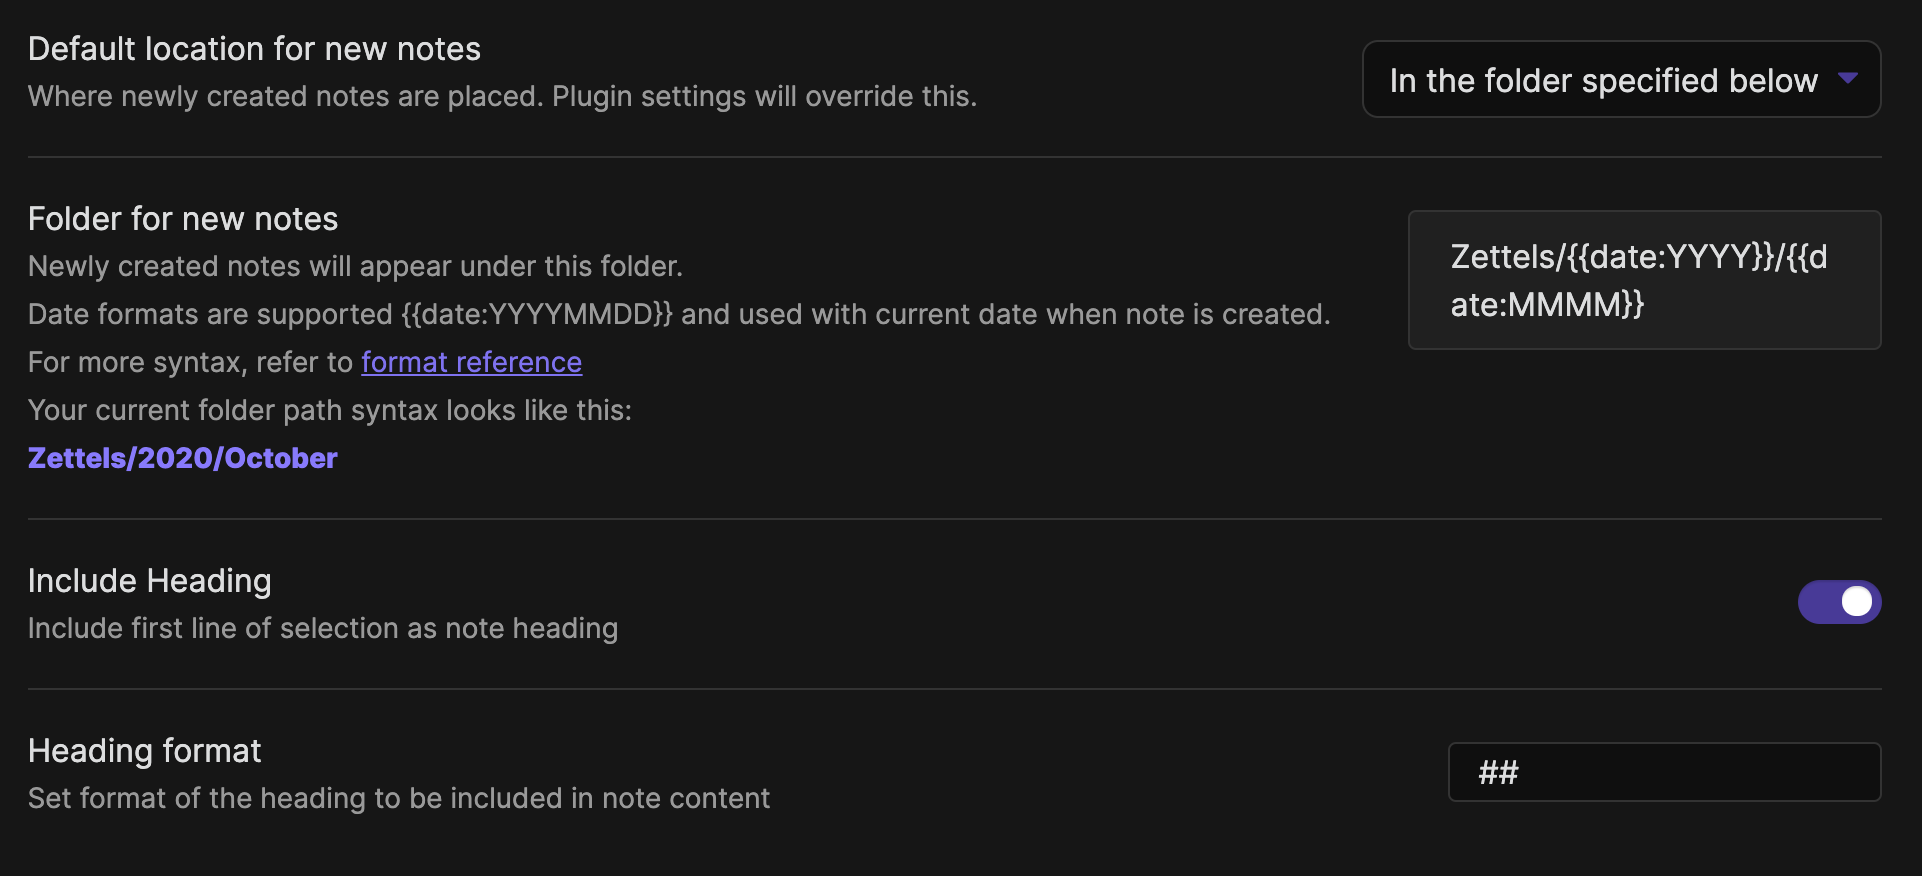
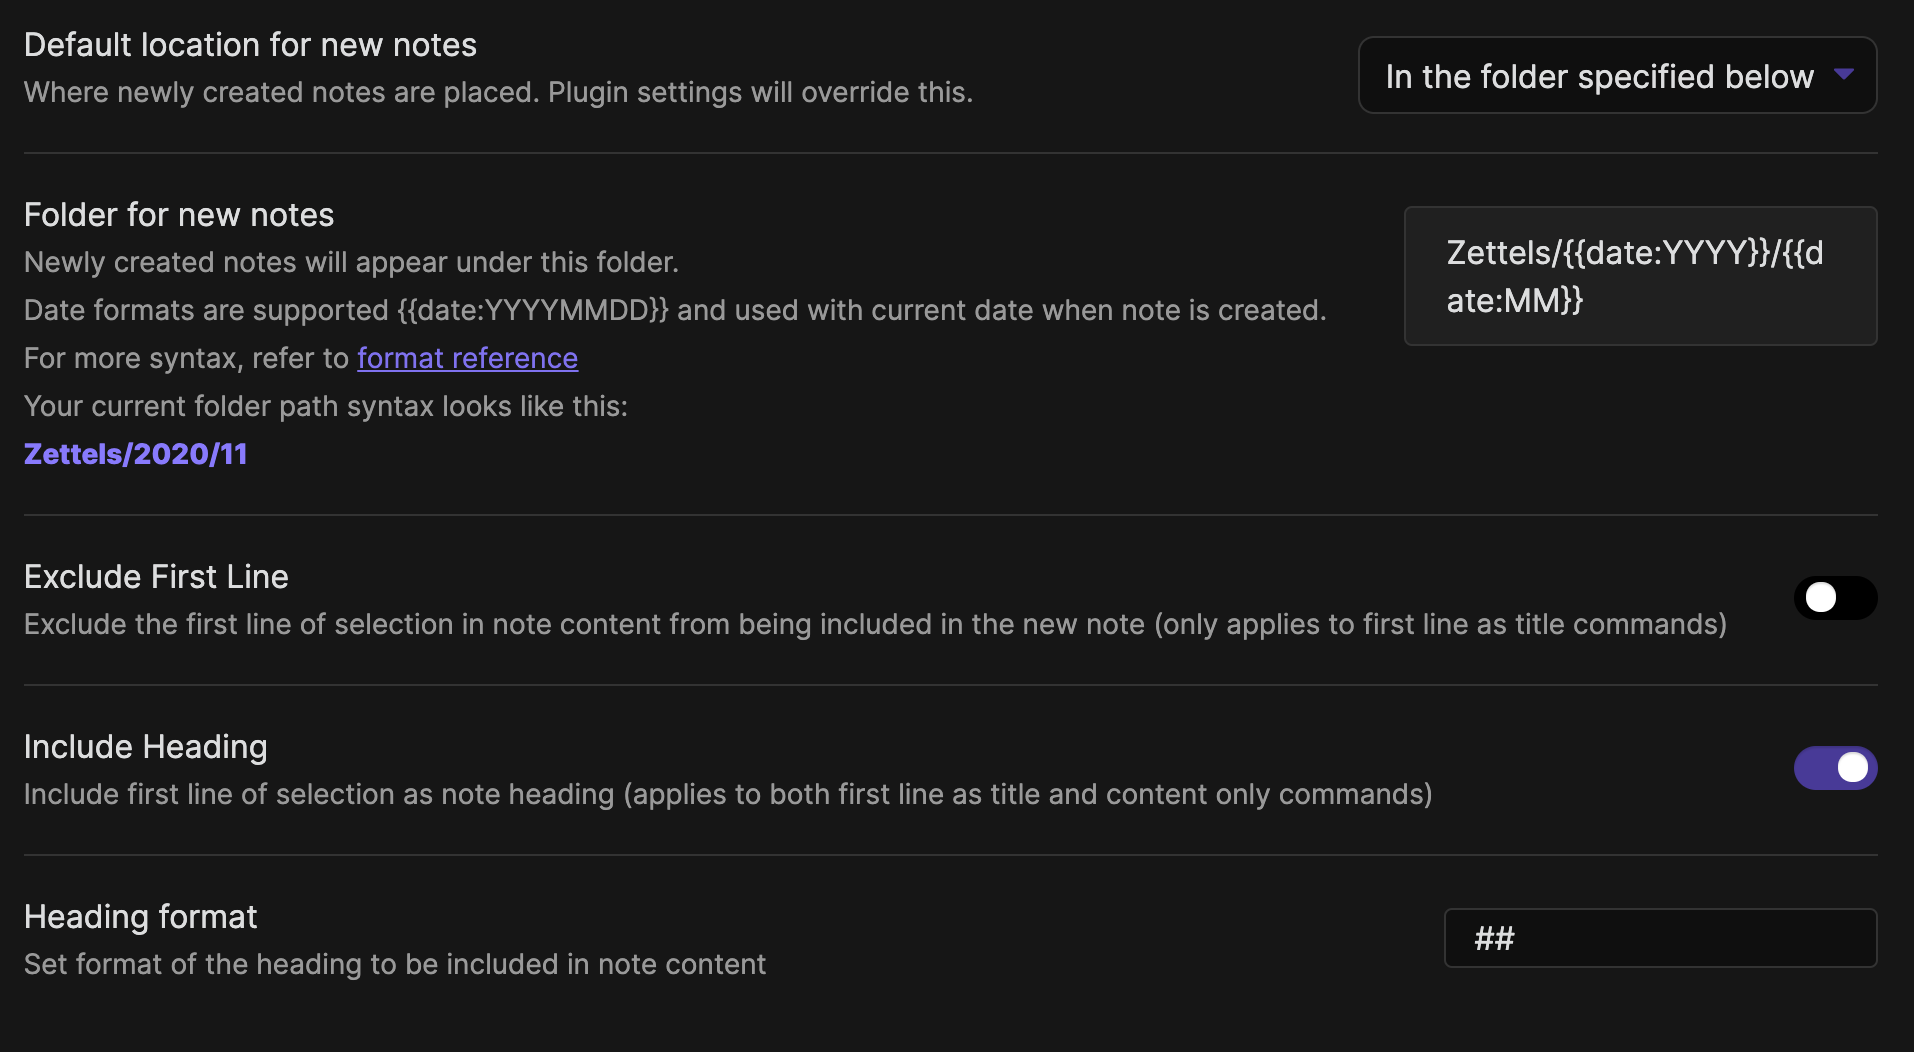
Adds usage table to README, updates settings screenshot re #14

diff --git a/src/settings-tab.ts b/src/settings-tab.ts
@@ -64,7 +64,7 @@ import NoteRefactor from './main';
   
         new Setting(containerEl)
           .setName('Include Heading')
-          .setDesc('Include first line of selection as note heading (applies for both first line as title and content only commands)')
+          .setDesc('Include first line of selected/split note content as note heading (applies for both first line as title and content only commands)')
           .addToggle(toggle => toggle.setValue(this.plugin.settings.includeFirstLineAsNoteHeading)
             .onChange((value) => {
               this.plugin.settings.includeFirstLineAsNoteHeading = value;

diff --git a/README.md b/README.md
@@ -18,6 +18,22 @@ The new note file is created at the root of the vault with the filename as the f
 
 Headings (`#`) characters and other illegal characters for filenames are removed including `:`, `\`, `/`.
 
+## Usage
+This table shows the different use cases for this plugin and how commands and settings can be used in each case.
+
+| Use case                                                      | Command                          | Plugin Settings                         |
+| --------------------------------------------------------------| -------------------------------- | -------------------------------- |
+| **Extracting** | |
+| 1. Extract a selection into a new note exactly as it is.<br />2. File name for new note provided by the user. | Extract selection to new note - content only | **Include Heading**<br />False |
+| 1. Extract a selection into a new note exactly as it is.<br />2. File name for new note set from the first line of the selection | Extract selection to new note - first line as file name | **Exclude First Line**<br />False <br/><br />**Include Heading**<br />False |
+| 1. Extract a selection into a new note.<br />2. File name for new note set from the first line of the selection.<br />3. First line included in the new note as a heading. | Extract selection to new note - first line as file name | **Exclude First Line**<br />False <br/><br />**Include Heading**<br />True |
+| 1. Extract a selection into a new note<br />2. File name for new note set from the first line of the selection.<br />3. First line not being included in the new note. | Extract selection to new note - first line as file name | **Exclude First Line**<br />True <br/><br /> |
+| **Splitting** | |
+| 1. Split a note from the current line of the cursor into new note exactly as it is.<br />2. File name for new note provided by the user. | Split note here - content only | **Include Heading**<br/>False |
+| 1. Split a note from the current line of the cursor into new note.<br />2. File name for new note provided by the user.<br />3. First included in the new note as a heading. | Split note here - content only | **Include Heading**<br/>True |
+| 1. Split a note from the current line of the cursor into a new note<br />2. File name for new note set from the first line of the selection.<br />3. First line included in the new note as a heading. | Split note here - first line as file name | **Exclude First Line**<br />False <br/><br />**Include Heading**<br />True |
+| 1. Split a note from the current line of the cursor into new note exactly as it is.<br />2. File name for new note set from the first line of the selection. | Extract selection to new note - first line as file name | **Include Heading**<br />False |
+
 ## Commands
 
 ### Note Splitting
@@ -70,13 +86,11 @@ A config setting allows for the first line of the selected text to be included i
 This setting is applied for either the First Line filename or Content Only commands. 
 ![note heading demo](https://raw.githubusercontent.com/lynchjames/note-refactor-obsidian/master/images/Note-Refactor-Demo-Include-First-Line-as-Note-Heading.gif)
 
-
-
 ## Compatibility
 
 Custom plugins are only available for Obsidian v0.9.7+.
 
-The current API of this repo targets Obsidian **v0.9.7**. 
+The current API of this repo targets Obsidian **v0.9.10**. 
 
 ## Installing
 
